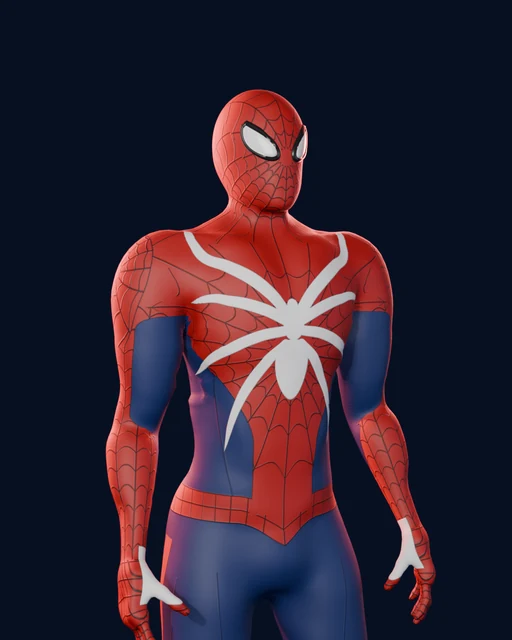
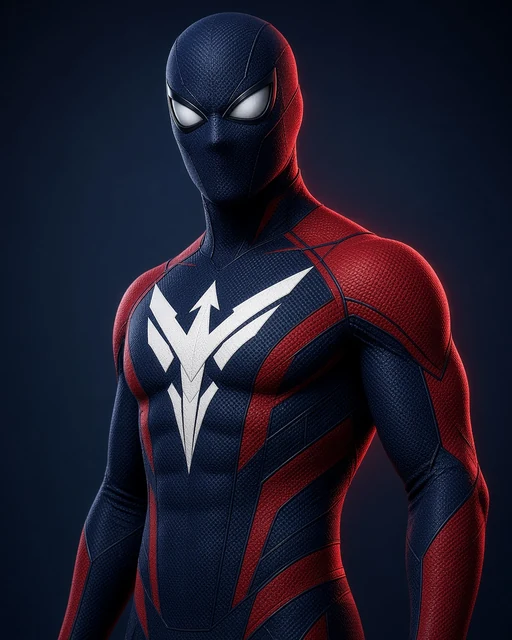
Suit menu: Higgsfield card art for Advanced, Iron and Symbiote
Replaces the interim Blender renders with Grok Image 2.0 portraits so all
eight suit cards share the same painted style.

diff --git a/src/ui/menus/suits.js b/src/ui/menus/suits.js
@@ -3,9 +3,8 @@
 import * as THREE from 'three';
 import { SUITS } from '../../game/systems/suits.js';
 
-// Card art: one painted portrait per suit (public/assets/ui/suits/<id>.webp). The AI-logo suits were generated with
-// Higgsfield (Nano Banana Pro); Advanced / Iron / Symbiote are Blender renders of the in-game hero model and its
-// suit recolours, because image models refuse the licensed character. Replaces the old procedural SVG silhouettes.
+// Card art: one painted portrait per suit (public/assets/ui/suits/<id>.webp), generated with Higgsfield: the AI-logo
+// suits with Nano Banana Pro, Advanced / Iron / Symbiote with Grok Image 2.0. Replaces the old procedural SVG silhouettes.
 function suitArt(s) {
   return `<img class="art" src="/assets/ui/suits/${s.id}.webp" alt="" draggable="false" decoding="async">`;
 }
